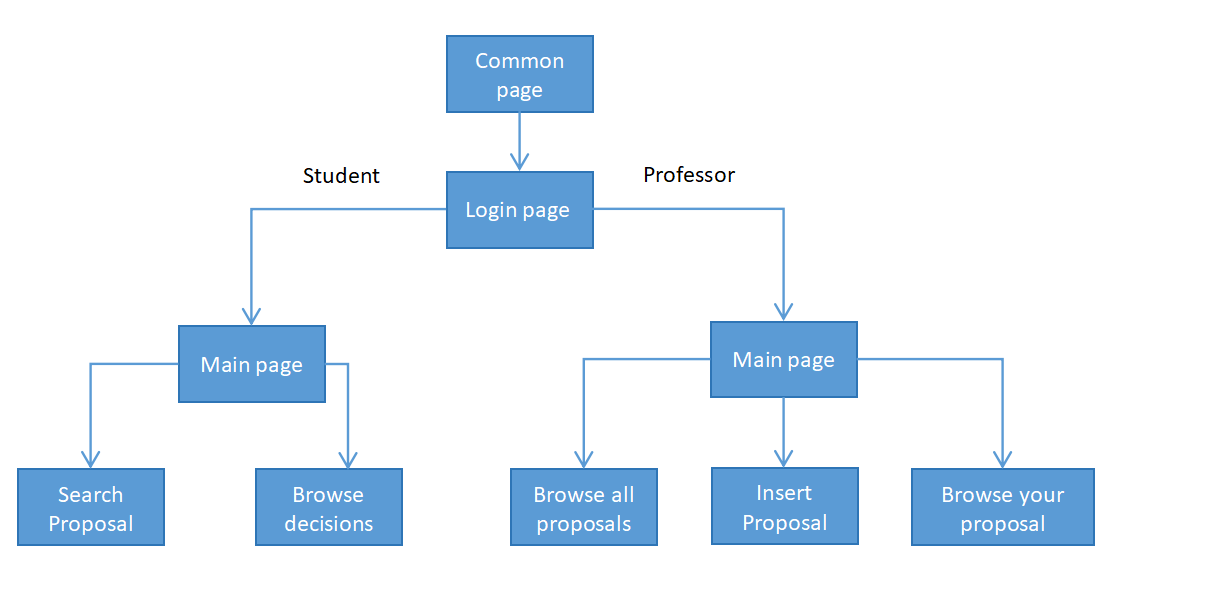
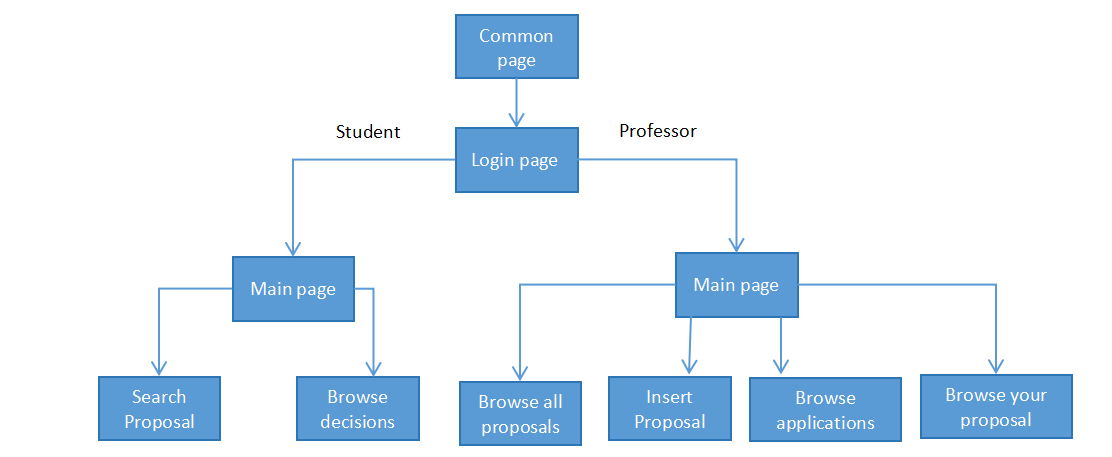
Update readme

Changed region(s): [[0.0, 0.0306, 0.9784, 0.9803]]

diff --git a/frontend/README.md b/frontend/README.md
@@ -21,7 +21,8 @@ ThesisManagement
     └── src
         ├── pages
            └── ApplyToProposal.jsx  
-           └── BrowseApplicaionDecision.jsx  
+           └── BrowseAndAcceptApplication.jsx
+           └── BrowseApplicationDecision.jsx    
            └── BrowseProposal.jsx
            └── InfoBox.jsx 
            └── LoginPage.jsx 
@@ -36,7 +37,8 @@ ThesisManagement
         └── main.jsx
 ```
 1. _ApplyToProposal.jsx_: page for applying to a proposal.
-2. _BrowseApplicationDecision.jsx_: page for browsing students' applications decisions.
+2. _BrowseAndAcceptApplication.jsx_: page for professor accepting or rejecting students' applications.
+3. _BrowseApplicationDecision.jsx_: page for browsing students' applications decisions.
 3. _BrowseProposal.jsx_: page for browsing active proposals.
 4. _InfoBox.jsx_: page for displaying all kinds of service information.
 5. _LoginPage.jsx_: page for login function.
@@ -116,3 +118,16 @@ _Professors_ can click on the button `Browse your Proposals` in the main page to
 
 When they click on a proposal, they can click on the `Modify` button and access a page to modify the proposal information.
 ![Browse_app_Prof_withclick](images/Browse_app_Prof_withclick.png)
+
+#### 5. Process Application page.
+When _Students_ send a new aaplication to a _Professor_.
+![New_Apply_Prof](images/New_Apply_Student.png)
+
+_Professors_ can process the applications from students by clicking on the button `Accept` or `Reject` in the page.
+![New_Apply_Prof](images/New_Apply_Prof.png)
+
+After processing, _Professors_ can see the application's status in the same page.
+![New_ApplyResult_Prof](images/New_ApplyResult_Prof.png)
+
+_Students_ can view the newest result in the `Browse Decision` page.
+![New_ApplyResult_Student](images/New_ApplyResult_Student.png)
